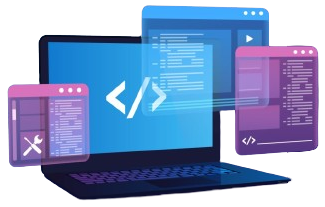
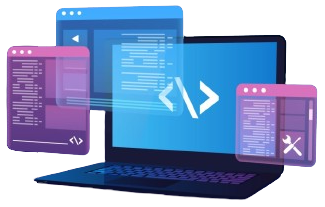
nada

diff --git a/index.html b/index.html
@@ -57,14 +57,14 @@
     <!-- Start landing -->
     <div class="landing">
         <div class="container between-flex gap-40">
-            <div class="img">
-                <img src="imgs/lap.png" alt="">
-            </div>
             <div class="text">
                 <h1 class="c-white">Achieve mastery</h1>
                 <h1 class="c-blue mt-0">through challenge</h1>
                 <p class="c-ccc fs-15">Improve your development skills by training with your peers on code kata that continuously challenge and push your coding practice.</p>
                 <a class="bg-white d-block w-fit mt-20 fs-30 fw-bold c-blue rad-6 border-blue" href="#">Get Started</a>
+            </div>
+            <div class="img">
+                <img src="imgs/lap.png" alt="">
             </div>
         </div>
     </div>
@@ -145,7 +145,7 @@
                         <img src="imgs/own-kata.png" alt="">
                     </div>
                 </div>
-                <div class="box p-30 rad-15 flex-1">
+                <div class="box p-30 rad-15">
                     <i class="fa-solid fa-code-compare center-flex c-black bg-ccc rad-half mb-15"></i>
                     <h2 class="mb-40">Tap into the collective wisdom</h2>
                     <div class="img p-relative rad-10">
@@ -188,21 +188,25 @@
                 </div>
             </div>
             <div class="box2 d-flex text-c w-full gap-50 rad-15 c-ccc p-30">
-                <div class="box">
-                    <h2 class="fs-40 mb-30">Accidentally got addicted to coding, oops.</h2>
+                <div class="box between-flex flex-column gap-20px">
+                    <h2 class="fs-40">Accidentally got addicted to coding, oops.</h2>
                     <div class="img">
-                        <img class="rad-half mb-20" src="imgs/team-2.jpg" alt="">
+                        <img class="rad-half" src="imgs/team-2.jpg" alt="">
                     </div>
-                    <h3>Nada Badawy</h3>
-                    <p class="c-blue">Coder</p>
+                    <div>
+                        <h3>Nada Badawy</h3>
+                        <p class="c-blue">Coder</p>
+                    </div>
                 </div>
-                <div class="box">
-                    <h2 class="fs-40 mb-30">Excellent example of mastery learning.</h2>
+                <div class="box between-flex flex-column gap-20">
+                    <h2 class="fs-40">Excellent example of mastery learning.</h2>
                     <div class="img">
-                        <img class="rad-half mb-20" src="imgs/team-1.jpg" alt="">
+                        <img class="rad-half" src="imgs/team-1.jpg" alt="">
                     </div>
-                    <h3>Sylvia Yousef</h3>
-                    <p class="c-blue">@this_sylvia</p>
+                    <div>
+                        <h3>Sylvia Yousef</h3>
+                        <p class="c-blue">@this_sylvia</p>
+                    </div>
                 </div>
             </div>
             <div class="box3 d-flex gap-20 c-ccc">

diff --git a/css/master.css b/css/master.css
@@ -426,11 +426,10 @@ header .container .login a:hover {
 .engeded .container .box .img::after {
     content: "Author kata that focus on your interests and train specific skill sets. Challenge the community with your insight and code understanding. Create everything from common developer interview questions to challenges that push the limits of your creativity. Gain honor within the coding dojo.";
     position: absolute;
-    bottom: 0;
-    left: -100%;
-    right: 0;
-    width: 0;
-    height: 0;
+    left: 0;
+    bottom: -100%;
+    width: 100%;
+    height: 100%;
     text-align: center;
     font-size: 18px;
     color: #ddd;
@@ -438,14 +437,10 @@ header .container .login a:hover {
     display: flex;
     align-items: center;
     background-color: rgb(0 0 0 /60%);
-    transition: .7s;
-    border: 1px solid;
-    border-color: transparent transparent #ddd #ddd;
+    transition: .5s;
 }
 .engeded .container .box .img:hover::after {
-    left: 0;
-    width: 100%;
-    height: 100%;
+    bottom: 0;
 }
 @media (max-width: 555px) {
     .engeded .container .box .img::after {
@@ -860,7 +855,7 @@ header .container .login a:hover {
     cursor: pointer;
 }
 .footer .container:last-of-type i:hover {
-    color: white;
+    color: #0d69d5;
     transform: scale(1.2);
 }
 /* End footer */
